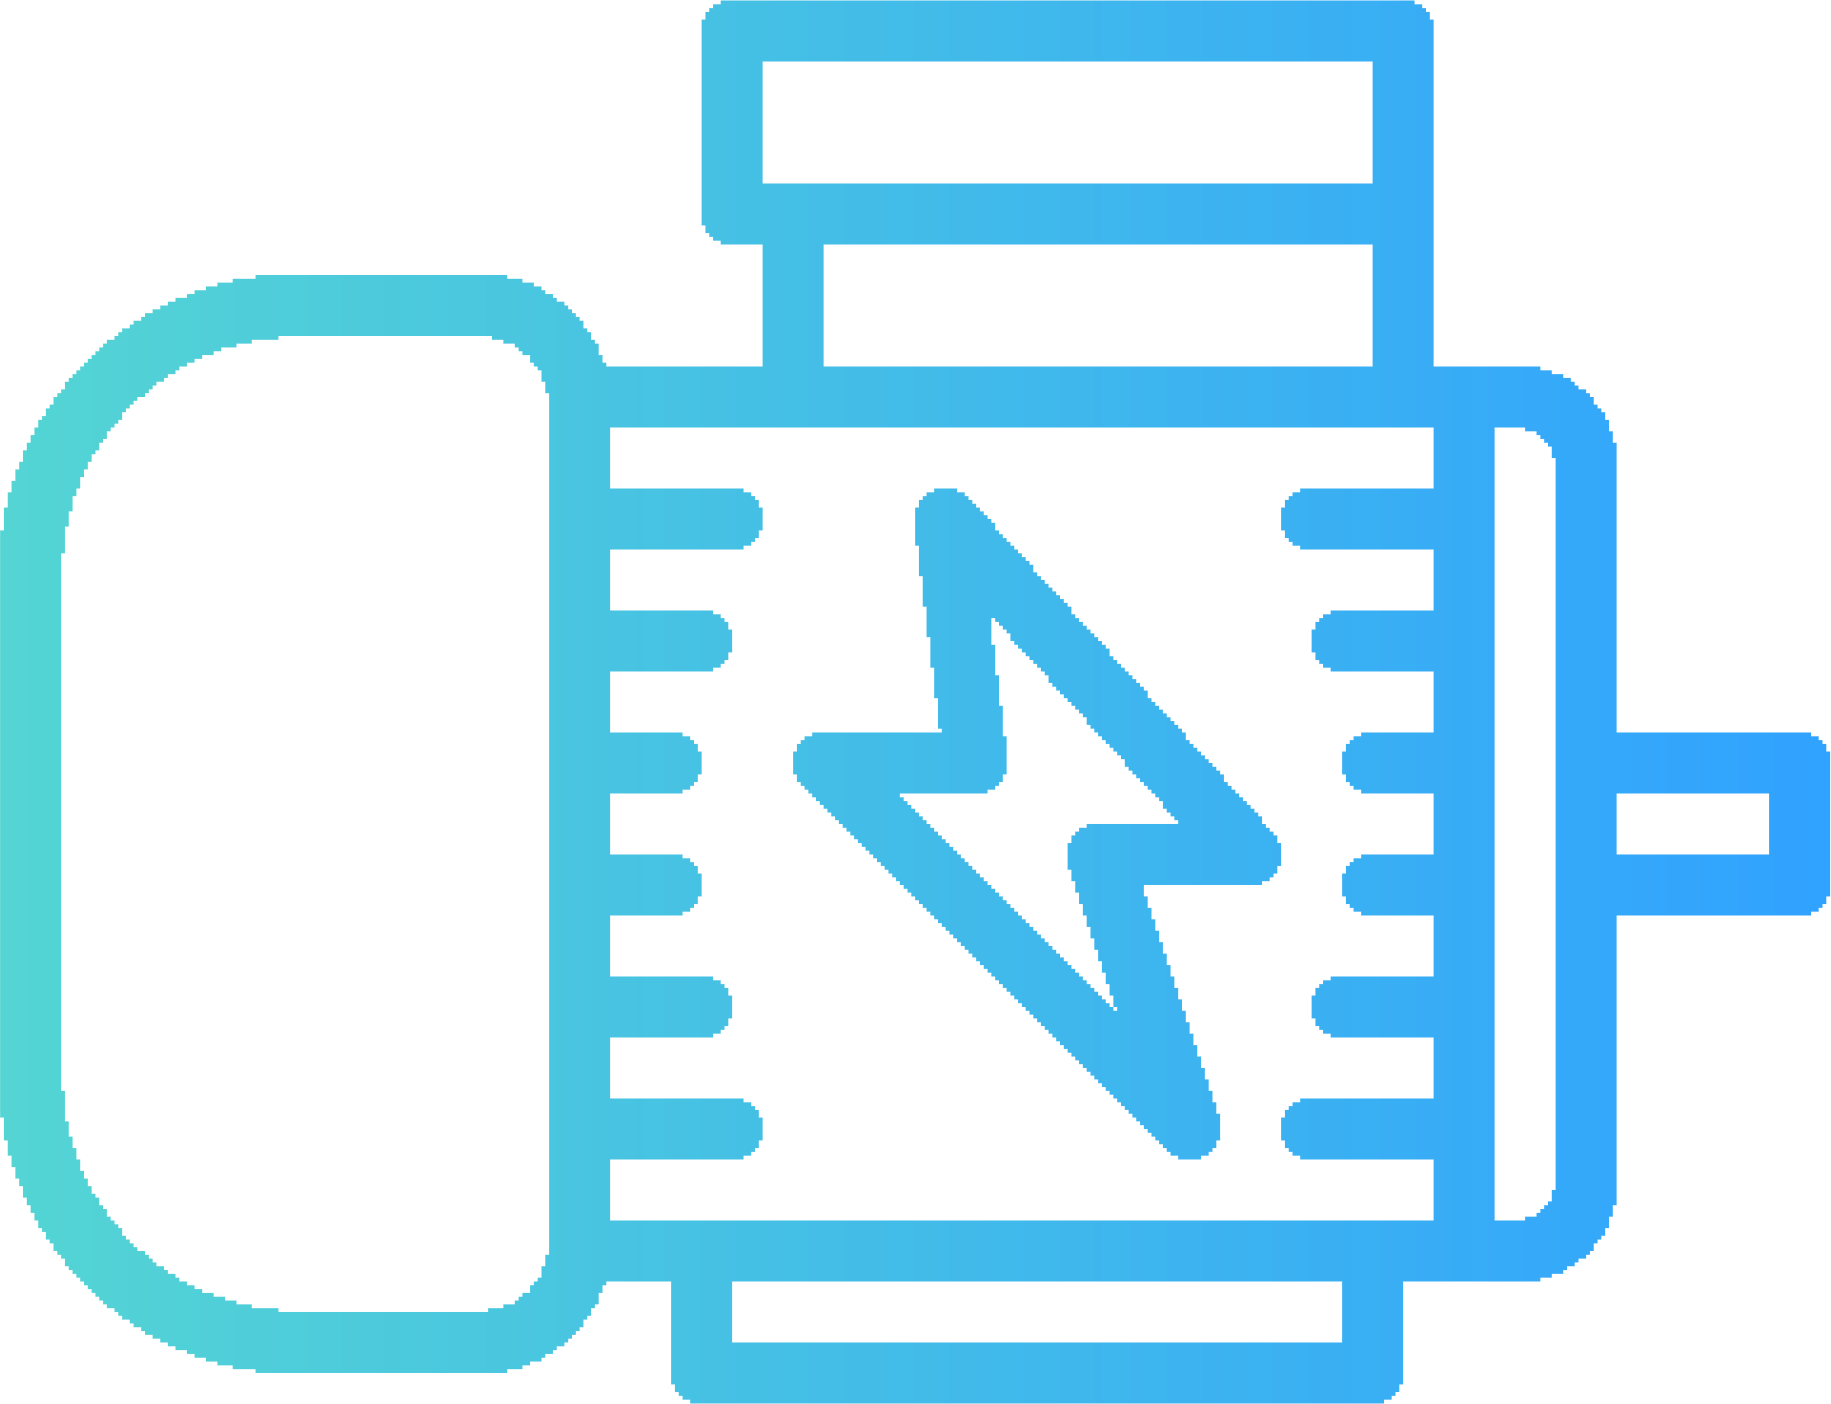
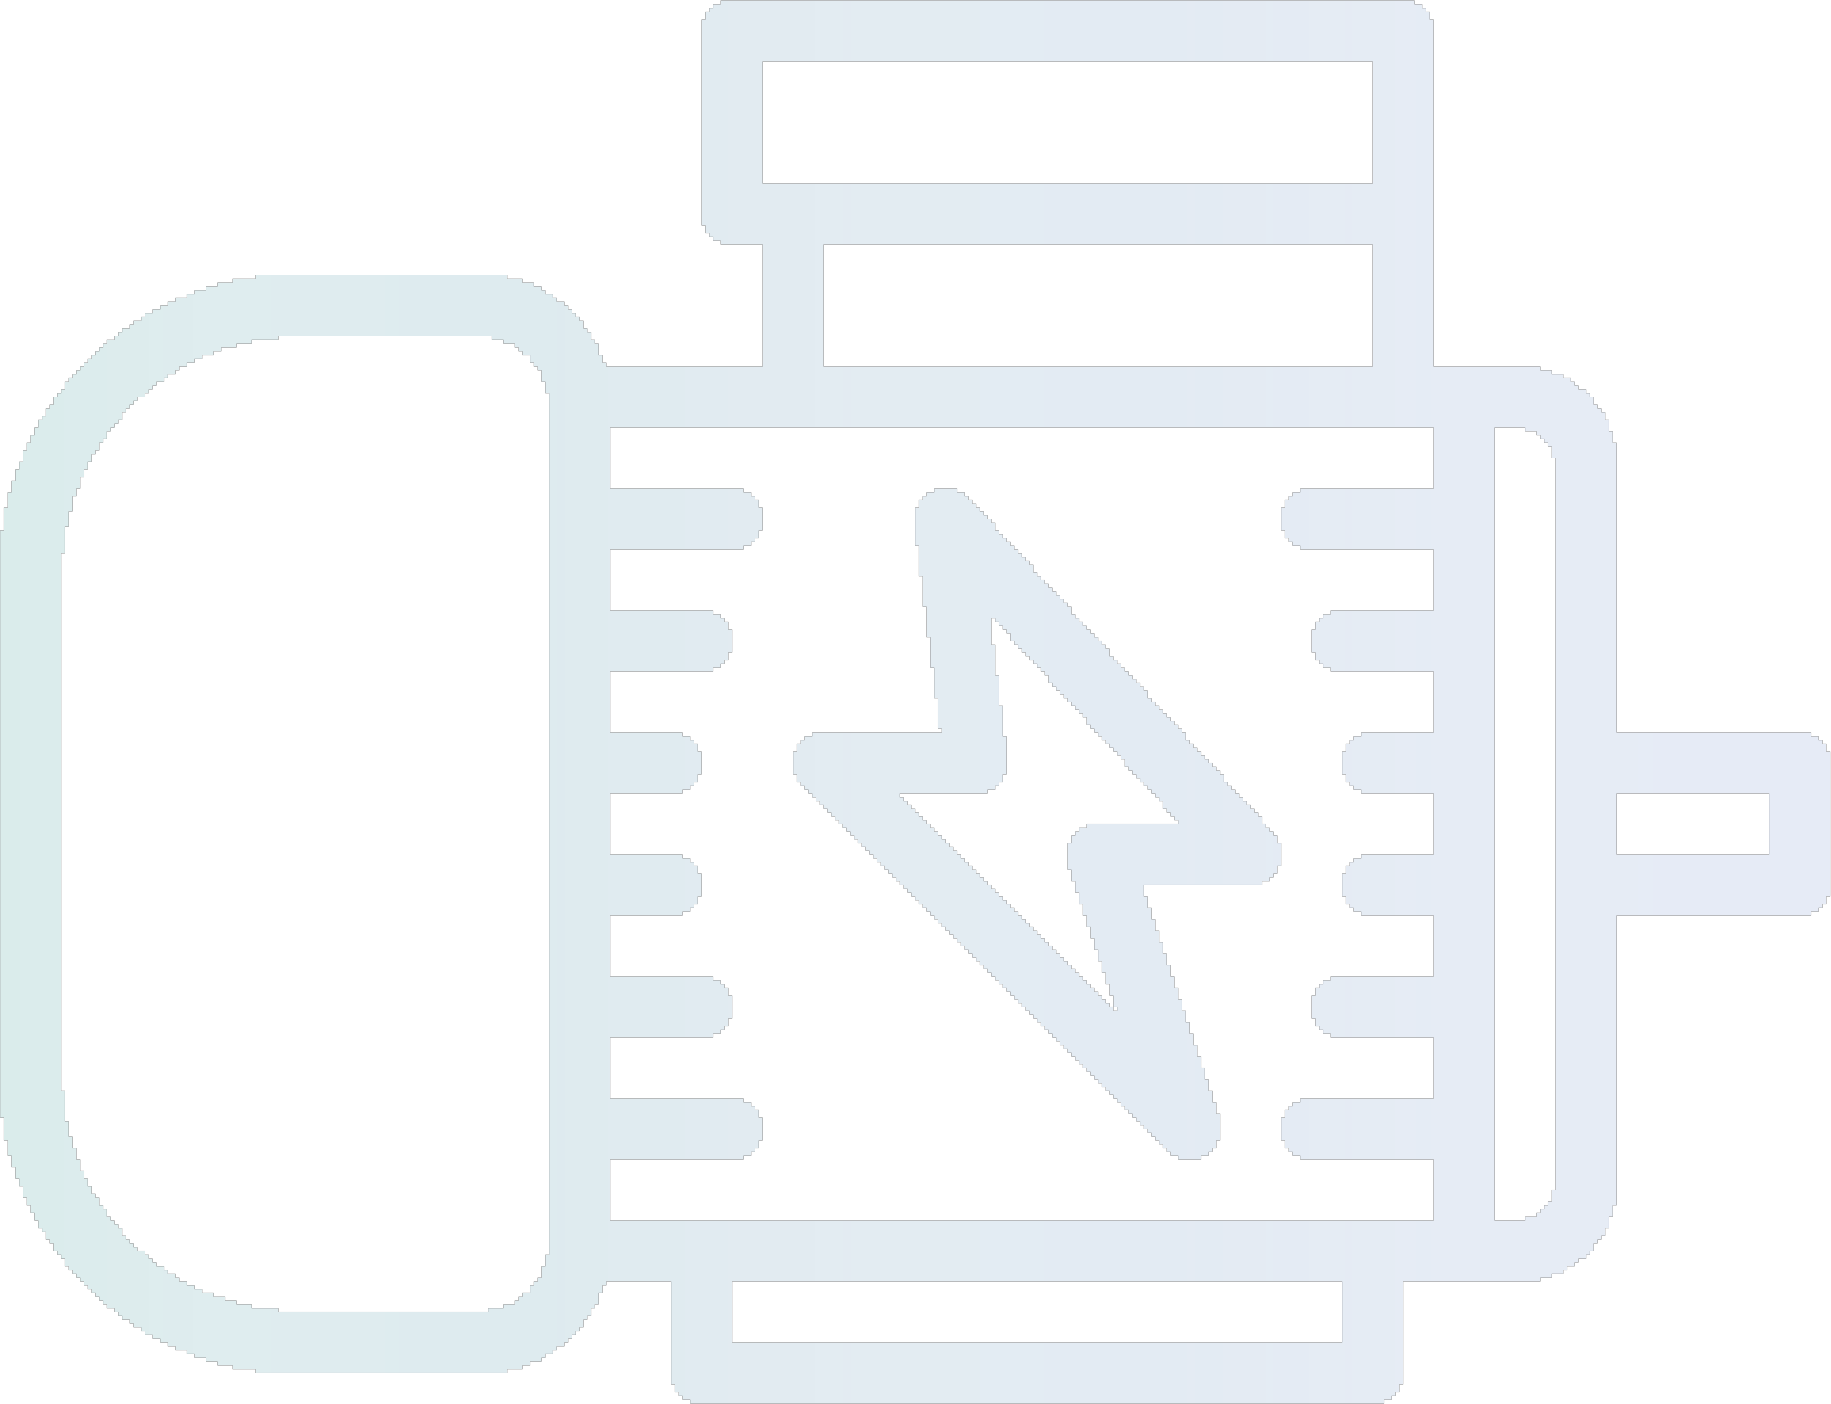
Tank Anomation and App in blue Colour.

diff --git a/lib/motor_switch.dart b/lib/motor_switch.dart
@@ -4,7 +4,7 @@ import 'dart:math' as math;
 
 class MotorSwitch extends StatelessWidget {
   bool _isSwitched = false;
-  double add_height = 37;
+  double add_height = 45;
   @override
   Widget build(BuildContext context) {
     return Stack(
@@ -24,7 +24,16 @@ class MotorSwitch extends StatelessWidget {
                     bottomLeft: Radius.circular(31),
                     bottomRight: Radius.circular(31),
                   ),
-                  color: Color.fromRGBO(69, 70, 107, 1),
+                  //color: Color.fromRGBO(69, 70, 107, 1),
+                  gradient: LinearGradient(
+                      begin: Alignment.topCenter,
+                      end: Alignment.bottomCenter,
+                      colors: [                                                                                                    
+                        Color.fromRGBO(4, 70, 168, 0.745),
+                        Color.fromRGBO(5, 32, 86, 1),
+                        Color.fromRGBO(4, 24, 65, 1),
+                        Color.fromRGBO(1, 8, 27, 1)
+                      ]),
                 ))),
 
         Positioned(
@@ -80,3 +89,51 @@ class MotorSwitch extends StatelessWidget {
     );
   }
 }
+
+      // Figma Flutter Generator Group13Widget - GROUP
+ /*     Container(
+      width: 390,
+      height: 844,
+      
+      child: Stack(
+        children: <Widget>[
+          Positioned(
+        top: 0,
+        left: 0,
+        child: Container(
+      width: 390,
+      height: 844,
+      decoration: BoxDecoration(
+          color : Color.fromRGBO(0, 0, 0, 1),
+  ),
+      child: Stack(
+        children: <Widget>[
+          Positioned(
+        top: 428,
+        left: 31,
+        child: Container(
+        width: 187,
+        height: 224,
+        decoration: BoxDecoration(
+          borderRadius : BorderRadius.only(
+            topLeft: Radius.circular(31),
+            topRight: Radius.circular(31),
+            bottomLeft: Radius.circular(31),
+            bottomRight: Radius.circular(31),
+          ),
+      gradient : LinearGradient(
+          begin: Alignment(6.123234262925839e-17,1),
+          end: Alignment(-1,6.123234262925839e-17),
+          colors: [Color.fromRGBO(5, 105, 255, 0.75),Color.fromRGBO(9, 45, 116, 1),Color.fromRGBO(1, 17, 60, 1)]
+        ),
+  )
+      )
+      ),
+        ]
+      )
+    )
+      ),
+        ]
+      )
+    )
+    */

diff --git a/lib/consumption_graph.dart b/lib/consumption_graph.dart
@@ -9,11 +9,11 @@ class WaterConsumption extends StatelessWidget {
       children: <Widget>[
         //Consumption Container
         Positioned(
-            top: 428 + add_height,
-            left: 31,
+            top: 409 + add_height,
+            left: 23,
             child: Container(
-                width: 187,
-                height: 224,
+                width: 205,
+                height: 254,
                 decoration: const BoxDecoration(
                   borderRadius: BorderRadius.only(
                     topLeft: Radius.circular(31),
@@ -21,18 +21,27 @@ class WaterConsumption extends StatelessWidget {
                     bottomLeft: Radius.circular(31),
                     bottomRight: Radius.circular(31),
                   ),
-                  color: Color.fromRGBO(69, 70, 107, 1),
+                  //color: Color.fromRGBO(69, 70, 107, 1),
+                  gradient: LinearGradient(
+                      begin: Alignment.topCenter,
+                      end: Alignment.bottomCenter,
+                      colors: [
+                        Color.fromRGBO(4, 70, 168, 0.745),
+                        Color.fromRGBO(5, 32, 86, 1),
+                        Color.fromRGBO(4, 24, 65, 1),
+                        Color.fromRGBO(1, 8, 27, 1)
+                      ]),
                 ))),
         Positioned(
-            top: 448 + add_height,
-            left: 57,
+            top: 425 + add_height,
+            left: 46,
             child: Text(
               'Water Consumption',
               textAlign: TextAlign.left,
               style: TextStyle(
                   color: Color.fromRGBO(255, 255, 255, 1),
                   fontFamily: 'WorkSans',
-                  fontSize: 14,
+                  fontSize: 16,
                   fontWeight: FontWeight.w600),
             )),
         Positioned(

diff --git a/lib/sensor.dart b/lib/sensor.dart
@@ -19,7 +19,16 @@ class SensorStatus extends StatelessWidget {
                     bottomLeft: Radius.circular(31),
                     bottomRight: Radius.circular(31),
                   ),
-                  color: Color.fromRGBO(69, 70, 107, 1),
+                  //color: Color.fromRGBO(69, 70, 107, 1),
+                  gradient: LinearGradient(
+                      begin: Alignment.topCenter,
+                      end: Alignment.bottomCenter,
+                      colors: [
+                        Color.fromRGBO(4, 70, 168, 0.745),
+                        Color.fromRGBO(5, 32, 86, 1),
+                        Color.fromRGBO(4, 24, 65, 1),
+                        Color.fromRGBO(1, 8, 27, 1)
+                      ]),
                 ))),
         Positioned(
             top: 195,
@@ -34,7 +43,16 @@ class SensorStatus extends StatelessWidget {
                     bottomLeft: Radius.circular(1),
                     bottomRight: Radius.circular(1),
                   ),
-                  color: Color.fromRGBO(255, 255, 255, 1),
+                  //color: Color.fromRGBO(255, 255, 255, 1),
+                  gradient: LinearGradient(
+                      begin: Alignment.topCenter,
+                      end: Alignment.bottomCenter,
+                      colors: [
+                        Color.fromRGBO(4, 70, 168, 0.745),
+                        Color.fromRGBO(5, 32, 86, 1),
+                        Color.fromRGBO(4, 24, 65, 1),
+                        Color.fromRGBO(1, 8, 27, 1)
+                      ]),
                 ))),
         const Positioned(
           top: 198,

diff --git a/lib/savings.dart b/lib/savings.dart
@@ -13,7 +13,7 @@ class WaterSaving extends StatelessWidget {
             top: 239 + add_height,
             left: 20,
             child: Container(
-                width: 372,
+                width: 366,
                 height: 177,
                 decoration: const BoxDecoration(
                   borderRadius: BorderRadius.only(
@@ -22,7 +22,16 @@ class WaterSaving extends StatelessWidget {
                     bottomLeft: Radius.circular(31),
                     bottomRight: Radius.circular(31),
                   ),
-                  color: Color.fromRGBO(69, 70, 107, 1),
+                  //color: Color.fromRGBO(69, 70, 107, 1),
+                  gradient: LinearGradient(
+                      begin: Alignment.topCenter,
+                      end: Alignment.bottomCenter,
+                      colors: [
+                        Color.fromRGBO(4, 70, 168, 0.745),
+                        Color.fromRGBO(5, 32, 86, 1),
+                        Color.fromRGBO(4, 24, 65, 1),
+                        Color.fromRGBO(1, 8, 27, 1)
+                      ]),
                 ))),
         Positioned(
             top: 247 + add_height,

diff --git a/lib/dashboard.dart b/lib/dashboard.dart
@@ -31,7 +31,7 @@ class Dashboard extends StatelessWidget {
                   width: MediaQuery.of(context).size.width,
                   height: MediaQuery.of(context).size.height,
                   decoration: const BoxDecoration(
-                    color: Color.fromRGBO(21, 23, 45, 1),
+                    color: Color.fromRGBO(0, 0, 0, 1),
                   ),
                   //WIDGET STACK
                   child: Stack(

diff --git a/lib/water_animation.dart b/lib/water_animation.dart
@@ -58,8 +58,8 @@ class _WaterUpdaterState extends State<WaterUpdater> {
             child: Stack(
               children: [
                 Positioned(
-                  top: 440,
-                  left: 55,
+                  top: 444,
+                  left: 58,
                   child: Container(
                     width: 530, // Set your desired width here
                     height: 330, // Set your desired height here

diff --git a/lib/tank_level.dart b/lib/tank_level.dart
@@ -7,8 +7,8 @@ class TankLevel extends StatelessWidget {
     return Stack(
       children: <Widget>[
         Positioned(
-            top: 479,
-            left: 276,
+            top: 579,
+            left: 290,
             child: Text(
               '50%',
               textAlign: TextAlign.left,
